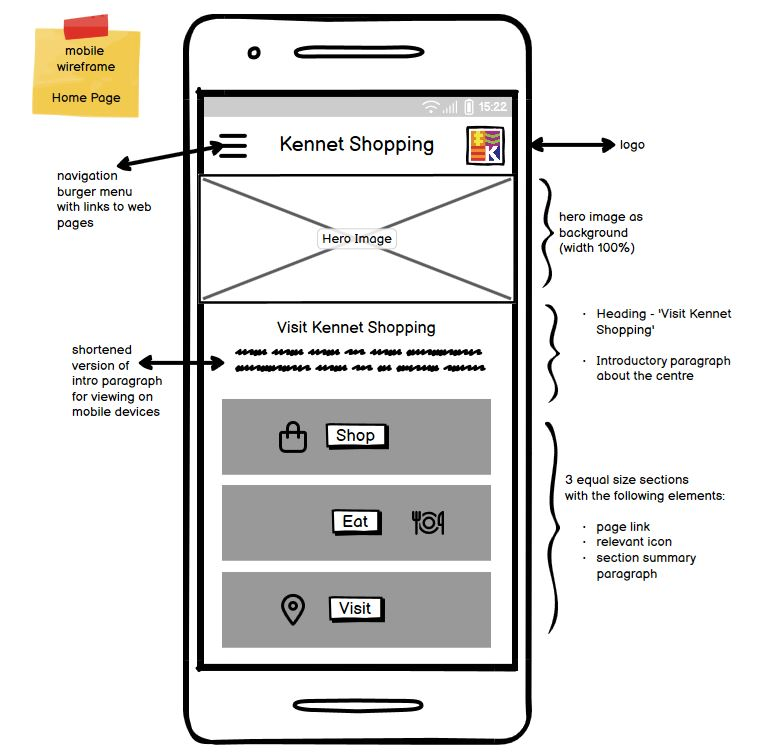
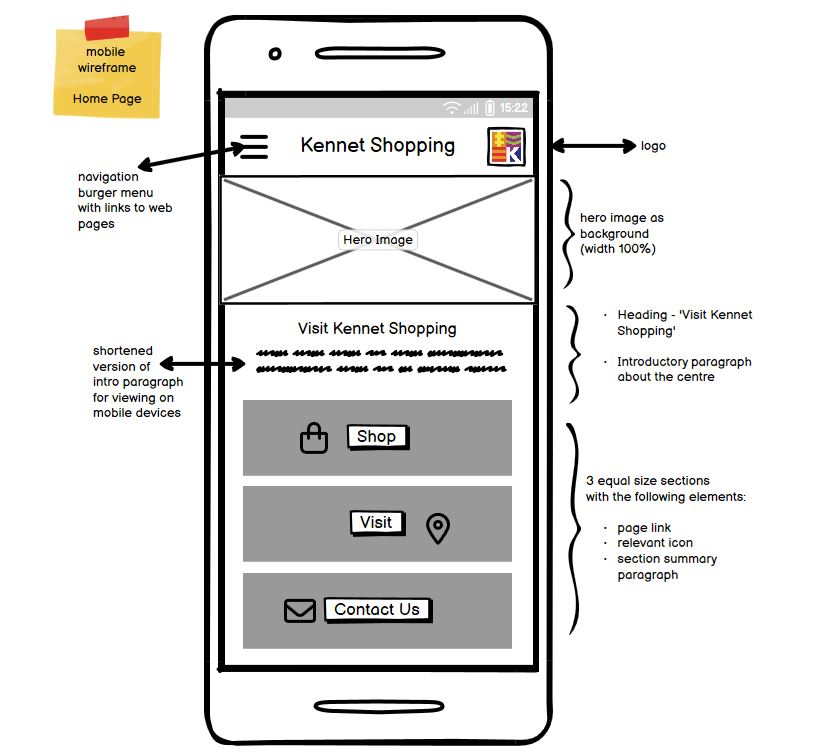
Upload amended mobile and desktop wireframe images

diff --git a/README.md b/README.md
@@ -153,7 +153,7 @@ As a developer:
 
 <br>
 
-![DesktopWireframeHomePage](assets/images/desktop-wireframe-homepage.png)
+![DesktopWireframeHomePage](assets/images/desktop-wireframe.png)
 
 <br>
 
